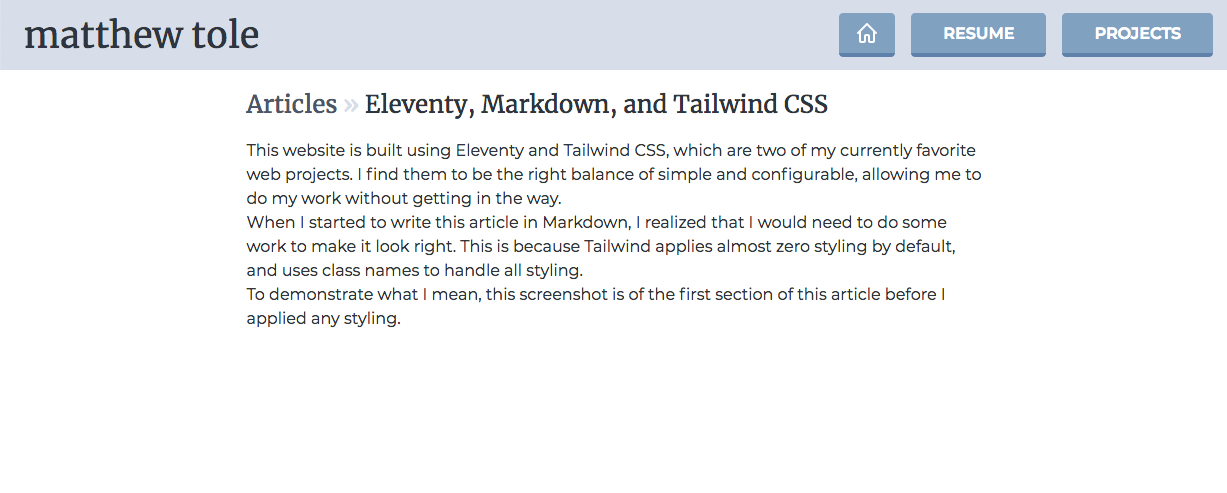
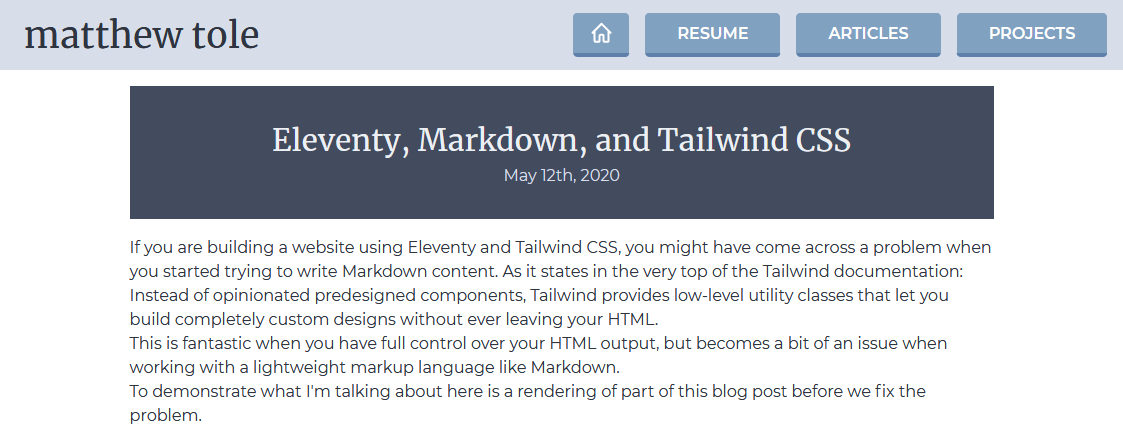
:pencil2: Finish writing the first article

diff --git a/src/_includes/postcss/styles.css b/src/_includes/postcss/styles.css
@@ -1,10 +1,5 @@
-@import 'tailwindcss/base';
-
-@import 'tailwindcss/components';
-
-@import 'tailwindcss/utilities';
-
-@import 'nord-highlightjs/dist/nord.css';
+@tailwind base;
+@tailwind components;
 
 .hover\:mt-2px:hover {
   margin-top: 2px;
@@ -31,45 +26,6 @@ span[data-pun] {
   @apply rounded-none bg-nord0 text-nord6;
 }
 
-.hljs {
-  @apply text-xs p-4 mb-4 mt-4;
-}
+@import './markdown';
 
-article p > code,
-article li > code {
-  @apply text-nord2 bg-nord5;
-}
-
-article h2 {
-  @apply text-xl font-serif mt-4;
-}
-
-article h3 {
-  @apply text-lg font-serif mt-4;
-}
-
-article p {
-  @apply mb-2;
-}
-
-article a {
-  @apply text-nord9 border-b border-nord9;
-  box-shadow: inset 0 -1px 0 #81a1c1;
-}
-
-article a:hover {
-  @apply bg-nord9 text-white;
-  box-shadow: 0 -1px 0 #81a1c1;
-}
-
-article ul {
-  @apply mb-2 list-disc;
-}
-
-article ol {
-  @apply mb-2 list-decimal;
-}
-
-article blockquote {
-  @apply border-nord9 border-l-4 pl-4 text-sm;
-}
+@tailwind utilities;

diff --git a/src/_includes/postcss/markdown.css b/src/_includes/postcss/markdown.css
@@ -1,0 +1,53 @@
+article p > code,
+article li > code {
+  @apply text-nord2 bg-nord5;
+}
+
+article h2 {
+  @apply my-4 font-serif text-2xl;
+}
+
+article h3 {
+  @apply my-4 font-serif text-xl;
+}
+
+article p {
+  @apply mb-2;
+}
+
+article a {
+  @apply border-b text-nord9 border-nord9;
+  box-shadow: inset 0 -1px 0 #81a1c1;
+}
+
+article a:hover {
+  @apply text-white bg-nord9;
+  box-shadow: 0 -1px 0 #81a1c1;
+}
+
+article ul {
+  @apply mb-2 list-disc;
+}
+
+article ol {
+  @apply mb-2 list-decimal;
+}
+
+article blockquote {
+  @apply px-4 py-2 mb-2 leading-tight border-l-4 border-nord9 text-nord3;
+}
+
+article blockquote p {
+  @apply m-0;
+}
+
+.hljs {
+  @apply p-4 mt-4 mb-4 text-xs;
+}
+
+.hljs + .hljs {
+  @apply border-t-4 border-nord2;
+  margin-top: -1rem;
+}
+
+@import 'nord-highlightjs/dist/nord.css';

diff --git a/src/css/styles.11ty.js b/src/css/styles.11ty.js
@@ -29,9 +29,8 @@ module.exports = class {
   }
 
   async render({ rawCss, rawFilepath }) {
-    console.log(rawFilepath);
     return await postcss([
-      require('postcss-import')(),
+      atImport({}),
       require('tailwindcss')('./tailwind.config.js'),
       require('autoprefixer'),
       ...(process.env.ELEVENTY_ENV === 'prod'

diff --git a/src/articles/eleventy-markdown-tailwind.md b/src/articles/eleventy-markdown-tailwind.md
@@ -1,17 +1,20 @@
 ---
 layout: layouts/article.njk
 title: Eleventy, Markdown, and Tailwind CSS
-tags: article
-snippet: Learn how to apply Tailwind CSS classes to Markdown content in your Eleventy website.
+tags:
+  - article
+  - tailwind
+  - eleventy
+snippet: Two different techniques for using Tailwind CSS with your Markdown content in Eleventy.
 ---
 
-This website is built using [Eleventy](https://11ty.dev) and [Tailwind CSS](https://tailwindcss.com), which are two of my currently favorite web technologies.
+If you are building a website using [Eleventy](https://11ty.dev) and [Tailwind CSS](https://tailwindcss.com), you might have come across a problem when you started trying to write Markdown content. As it states in the very top of the Tailwind documentation:
 
-I find them to be the right balance of simple and configurable, allowing me to do my work without getting in the way.
+> Instead of opinionated predesigned components, Tailwind provides low-level utility classes that let you build completely custom designs without ever leaving your HTML.
 
-When I started to write this article in Markdown, I realized that I would need to do some work to make it look right. This is because Tailwind applies almost zero styling by default, and uses class names to handle all styling.
+This is fantastic when you have full control over your HTML output, but becomes a bit of an issue when working with a lightweight markup language like Markdown.
 
-To demonstrate what I mean, this screenshot is of the first section of this article before I applied any styling.
+To demonstrate what I'm talking about here is a rendering of part of this blog post before we fix the problem.
 
 <div class="my-4 border border-nord2">
   <div class="flex items-center p-2 bg-nord2">
@@ -22,65 +25,140 @@ To demonstrate what I mean, this screenshot is of the first section of this arti
   <img src="/static/images/articles/eleventy-markdown-tailwind.png" alt="Screenshot of the unstyled article" />
 </div>
 
-My initial approach to the problem was to
+As you can see, there's no styling being applied to any of the content, which makes it hard to read!
 
-My first thought was to use [Tailwind's `@apply` directive](https://tailwindcss.com/docs/extracting-components#extracting-css-components-with-apply) to add the classes in my CSS file.
+So, how can we fix this? I came up with two different approaches when building this site, and I've described them both below, with their pros and cons. Take a look and see if either of them might work for you.
+
+## Create custom Tailwind components
+
+> **NOTE:** This method only works if you are using Tailwind with PostCSS.
+
+Tailwind CSS encourages the utility first approach to CSS but does provide a mechanism for applying their styles in CSS, instead of HTML. This is intended to be used for small, commonly used components, but we can take advantage of it to style our Markdown content.
+
+The `@apply` directive can be used to create CSS rules that are composed of Tailwind classes. For example, if you find yourself always using the same classes to make giant red text appear on the page, then instead of applying the Tailwind classes everywhere:
+
+```html
+<h1 class="text-4xl font-bold text-red-400">GIANT RED TEXT</h1>
+```
+
+You can create a new class that's built out of those class definitions, and use that everywhere.
 
 ```css
-p {
-  @apply mb-2;
-}
-
-a {
-  @apply text-nord11 border-b border-nord11;
+.big-red-text {
+  @apply text-4xl text-red-400 font-bold;
 }
 ```
 
-This was appealing for its simplicity, but I try to avoid adding new classes whenever possible to keep my CSS size small.
+```html
+<h1 class="big-red-text">GIANT RED TEXT</h1>
+```
 
-Thankfully, Eleventy allows you to [customize the Markdown renderer](https://www.11ty.dev/docs/languages/markdown/#add-your-own-plugins), and I found a plugin for Markdownit that lets you specify the classes to apply to each tag.
+> Check out the [Tailwind documentation](https://tailwindcss.com/docs/extracting-components#extracting-css-components-with-apply) for the full details on how to use the `@apply` directive.
 
-Putting the two together in my `.eleventy.js` configuration file, and I ended up with something like this.
+So how can we use this technique for our Markdown content? Instead of creating CSS classes with the `@apply` directive, you can use them on HTML elements instead.
 
-```javascript
+```css
+.markdown h1 {
+  @apply text-4xl text-red-400 font-bold;
+}
+
+.markdown a {
+  @apply text-blue-300;
+}
+
+.markdown a:hover {
+  @apply underline;
+}
+```
+
+Note that you cannot just use the pseudo-class prefixes as you would in your HTML, you have to specify them manually like you would in CSS.
+
+You should also ensure that you put all of your Markdown CSS definitions under a class so that they don't leak out into the rest of your site. You probably don't want these rules to apply everywhere, just your Markdown content.
+
+### Positives
+
+This technique is very versatile, allowing you the full flexibility of CSS combined with the utility of Tailwind.
+
+The styles for your Markdown content live in your CSS files, which makes them easy to find and understand.
+
+### Negatives
+
+The `@apply` directive is not intended to be used in this way, and should ideally be reserved for reusable components, not overriding the styles of base HTML elements.
+
+Introducing new rules to your CSS will increase the size, although likely only by a very small amount.
+
+## Add classes to the Markdown output
+
+Instead of adding new CSS rules, what if instead we could add the classes to the HTML output of the Markdown? Well, it turns out we can!
+
+Eleventy gives you the ability to modify the library used to render Markdown content. You can even swap it out for an entirely different one if you like.
+
+We don't need to go to that extreme for our needs, we can just use a plugin to add some classes to the output.
+
+Eleventy ships with [markdown-it](https://markdown-it.github.io/) out of the box. It's a very configurable Markdown parser that gives you full control over the rendering but it comes with pretty solid defaults to start with.
+
+One of the many community-written plugins for markdown-it is called [markdown-it-class](https://www.npmjs.com/package/@toycode/markdown-it-class) and it allows you to specify classes that get added to the HTML.
+
+Before we can use the plugin, we first need to install it from npm.
+
+```shell
+$ npm install --save @toycode/markdown-it-class
+```
+
+Then we need to add some code to our Eleventy config file to override the default Markdown parser. If you don't already have an Eleventy configuration file, start by creating it.
+
+```js
+// .eleventy.js
+module.exports = (eleventyConfig) => {};
+```
+
+Import the markdown-it library and the markdown-it-class plugin.
+
+```js
 const markdownIt = require('markdown-it');
 const markdownItClass = require('@toycode/markdown-it-class');
+```
 
-module.exports = (eleventyConfig) => {
-  const mapping = {
-    p: ['mb-2'],
-    a: ['text-nord11', 'border-b', 'border-nord11'],
-  };
-  const md = markdownIt({ linkify: true, html: true }).use(
-    markdownItClass,
-    mapping
-  );
-  eleventyConfig.setLibrary('md', md);
+Define the mapping of HTML elements to classes. You can use strings for single classes, or arrays if you want to specify multiple classnames.
+
+```js
+const mapping = {
+  h1: ['text-4xl', 'text-red-400', 'font-bold'],
+  a: ['text-blue-300', 'hover:underline'],
 };
 ```
 
-This works great, and got me 90% of the way to where I wanted the styles to be.
+In order to use the plugin, we have to create a new markdown-it instance and tell Eleventy to use it for handling Markdown files.
 
-_Unfortunately_ the plugin I chose to handle adding the CSS classes had a couple of limitations that I hadn't forseen.
-
-1. It didn't work for all elements, such as code blocks
-2. There wasn't a mechanism to set different classes based on the nested of elements (e.g. `a > code` vs `p > code`)
-
-It didn't seem that hard to fix **#1** but I couldn't think of a good general solution for **#2** so in the end I decided to go back to the first approach and just apply the classes in the CSS.
-
-```css
-article p > code,
-article li > code {
-  @apply text-nord2 bg-nord5;
-}
-
-article h2 {
-  @apply text-xl font-serif mt-4;
-}
-
-article h3 {
-  @apply text-lg font-serif mt-4;
-}
+```js
+const md = markdownIt({ linkify: true, html: true });
+md.use(markdownItClass, mapping);
+eleventyConfig.setLibrary('md', md);
 ```
 
-You can view the full CSS file on [Github](https://github.com/matthewtole/matthewtole.com/blob/master/src/_includes/postcss/styles.css).
+Now when you build your site, the output of your Markdown files should look now include the Tailwind class names.
+
+```html
+<h1 class="text-4xl font-bold text-red-400">GIANT RED TEXT</h1>
+<a class="text-blue-300 hover:underline">I'm a link!</a>
+```
+
+### Positives
+
+Adding the classes to the HTML that the Markdown library generates align well with the general philosophy of Tailwind.
+
+This technique can be used even if you're not using Tailwind with PostCSS, such as loading it from a CDN. It also can be adapted to other atomic CSS libraries very easily.
+
+### Negatives
+
+Having your Markdown content styles configured in the Eleventy configuration file makes them harder to reason about since they're not with the content _or_ any of the other styles.
+
+There are some limitations to the `markdown-it-class` plugin that I've found. It doesn't work with inline or block code elements.
+
+You cannot have different styles for your elements depending on the context. For example, I wanted to have my inline code be styled differently if it's contained within a link.
+
+## Conclusion
+
+While I would have preferred to go with the Markdown class solution, the limitations were too much for me, so for this site, I have decided to use custom Tailwind components in my CSS.
+
+You can view the finished [CSS file on Github](https://github.com/matthewtole/matthewtole.com/blob/master/src/_includes/postcss/styles.css) to see what I used to create the designs here.
